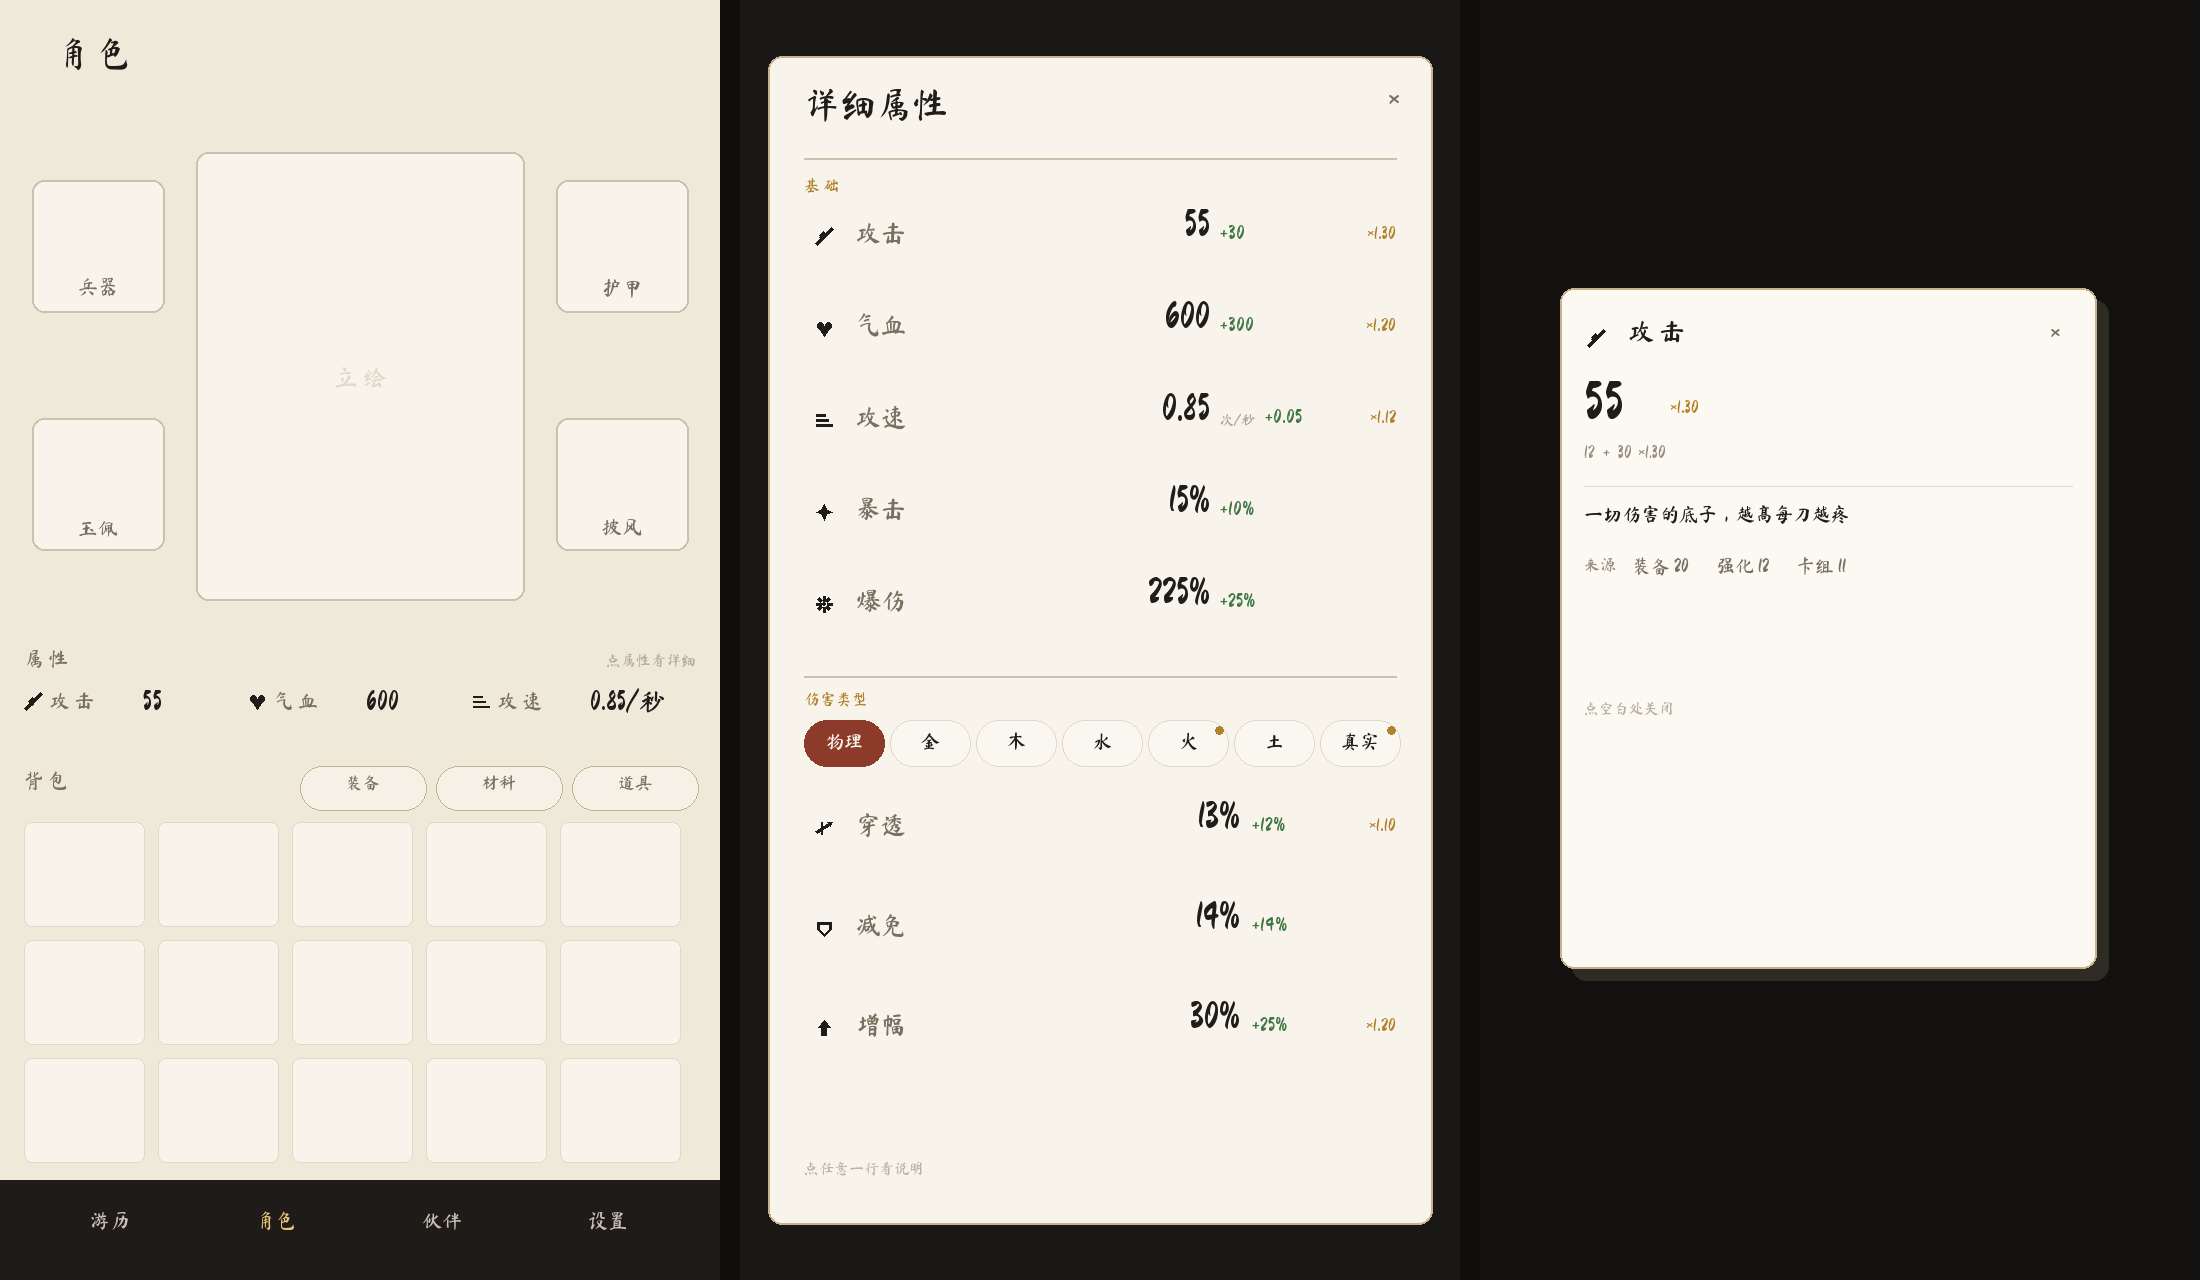
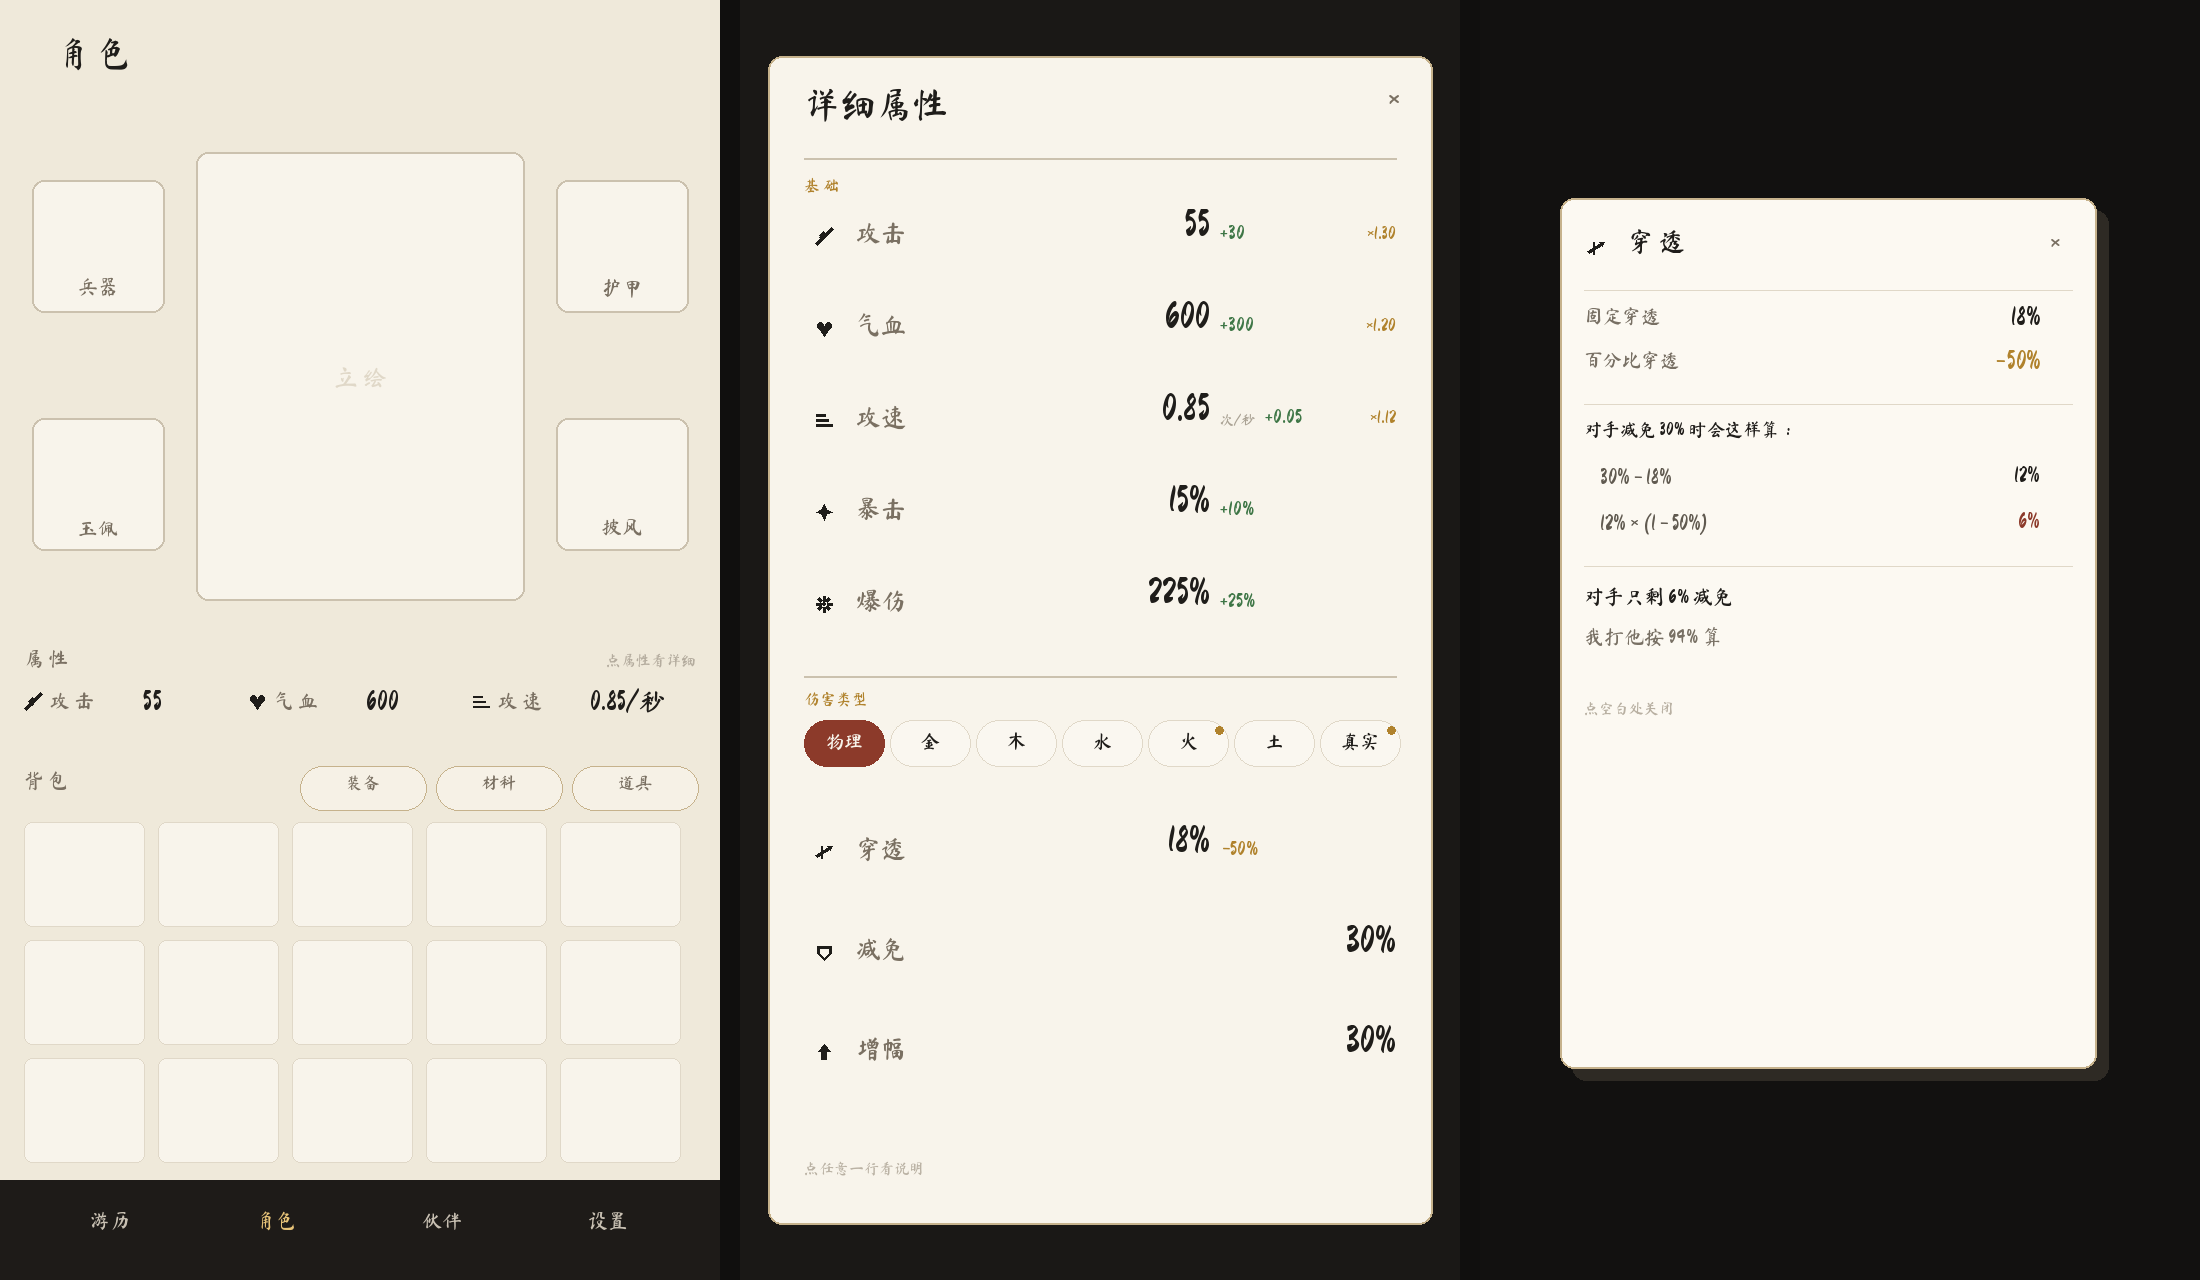
文档：穿透改成两段依次作用（固定扣点 + 百分比削剩余），修正之前的错误口径
- 正确公式：剩余减免 = max(0, 对手减免 − 固定穿透) × (1 − 百分比穿透)
- 例：对手 30% 减免，我 18% 固定 + 50% 百分比 → 30-18=12 → 12×50%=6
- 穿透没有合计值（取决于对手），面板并列显示两段：18% −50%
- 弹窗里给了一个计算器式的拆解示例

diff --git a/docs/人物属性_设计稿.md b/docs/人物属性_设计稿.md
@@ -61,26 +61,32 @@
 
 ### 2.1 六个常规页签（物理 ＋ 金木水火土）
 
-| 项 | 固定（绿） | 增幅（金） | 上限 | 说明 |
+| 项 | 固定段 | 百分比段 | 上限 | 说明 |
 |---|---|---|---|---|
 | **攻击** | ＋该系额外攻击 | 攻击增幅 | — | 默认＝总攻击（**内部规则，不上界面**） |
-| **穿透** | ＋N%（百分点） | 穿透增幅 | 60% | 抵掉对手同系减免（抵到 0 为止） |
-| **减免** | ＋N%（百分点） | 减免增幅 | 60% | 挨同系伤害时按此比例减 |
-| **增幅** | ＋N%（百分点） | 增幅强化 | 200% | 同系伤害的乘区 |
+| **穿透** | －N 个百分点 | 再削掉剩余减免的 M% | 60% | **两段依次作用在对手的减免上** |
+| **减免** | ＋N 个百分点 | —— | 60% | 挨同系伤害时按此比例减 |
+| **增幅** | ＋N 个百分点 | —— | 200% | 同系伤害的乘区 |
 
-**举例（固定物理穿透 12 ＋ 百分比物理穿透 10%）**：
-
-| 你有的 | 落在哪 | 显示 |
-|---|---|---|
-| 固定物理穿透 12 | 固定（绿） | `+12%` |
-| 百分比物理穿透 10% | 增幅（金） | `×1.10` |
-| 合计 | (0 ＋ 12%) × 1.10 ＝ **13.2%** | 白 `13%`（弹窗写 13.2%） |
-
-→ 一行就是：
+**穿透不是"我的一个数值"，它作用在对手身上、两段依次来**：
 
 ```
-➹ 穿透    13%   +12%   ×1.10
-           ↑白    ↑绿     ↑金
+剩余减免 = max(0, 对手减免 − 我的固定穿透) × (1 − 我的百分比穿透)
+```
+
+举例（我：物理穿透 18 ＋ 物理穿透 50%；对手：物理减免 30%）：
+
+```
+第 1 段  30% − 18%        = 12%      ← 固定穿透，直接扣点数
+第 2 段  12% × (1 − 50%)  =  6%      ← 百分比穿透，削剩余的一半
+结果     对手只剩 6% 减免，我打他按 94% 算
+```
+
+所以面板上 **穿透显示两段，没有"合计"** —— 合计取决于对手是谁：
+
+```
+➹ 穿透    18%    −50%
+          ↑白      ↑金
 ```
 
 - 五系**各记各的账**：金额外不会变成火增幅，火减免也挡不了金系
@@ -144,16 +150,22 @@
 最终爆伤 = 基础爆伤 + 额外爆伤               → 封顶 400%
 ```
 
-### 3.1.1 穿透 / 减免 / 增幅 也是两层
+### 3.1.1 穿透 / 减免 / 增幅 的口径
 
 ```
-最终穿透 = (0 + 固定穿透) × (1 + 穿透增幅)   → 封顶 60%
-最终减免 = (0 + 固定减免) × (1 + 减免增幅)   → 封顶 60%
-最终增幅 = (0 + 固定增幅) × (1 + 增幅强化)   → 封顶 200%
+穿透（作用在对手身上，两段依次）：
+  剩余减免 = max(0, 对手减免 − 我的固定穿透) × (1 − 我的百分比穿透)
+
+减免（我自己挨打时吃）：
+  我的减免 = 固定减免（点数）                → 封顶 60%
+
+增幅（我的伤害乘区）：
+  最终增幅 = 固定增幅（点数）                → 封顶 200%
 ```
 
-> 百分比属性没有"基础值"（起点就是 0），所以结构是 **固定 ＋ 固定×增幅**；
-> 界面上的白字永远是**最终值**，绿字是固定，金字是增幅。
+> **穿透没有"合计值"**——两段作用在对手的减免上，结果取决于对手；
+> 面板只能并列显示「固定 18%」和「百分比 −50%」两段。
+> 减免 / 增幅 各自只有一段（点数），因为它们的"百分比"就等于加点数。
 
 ### 3.2 每一系的攻击值
 
